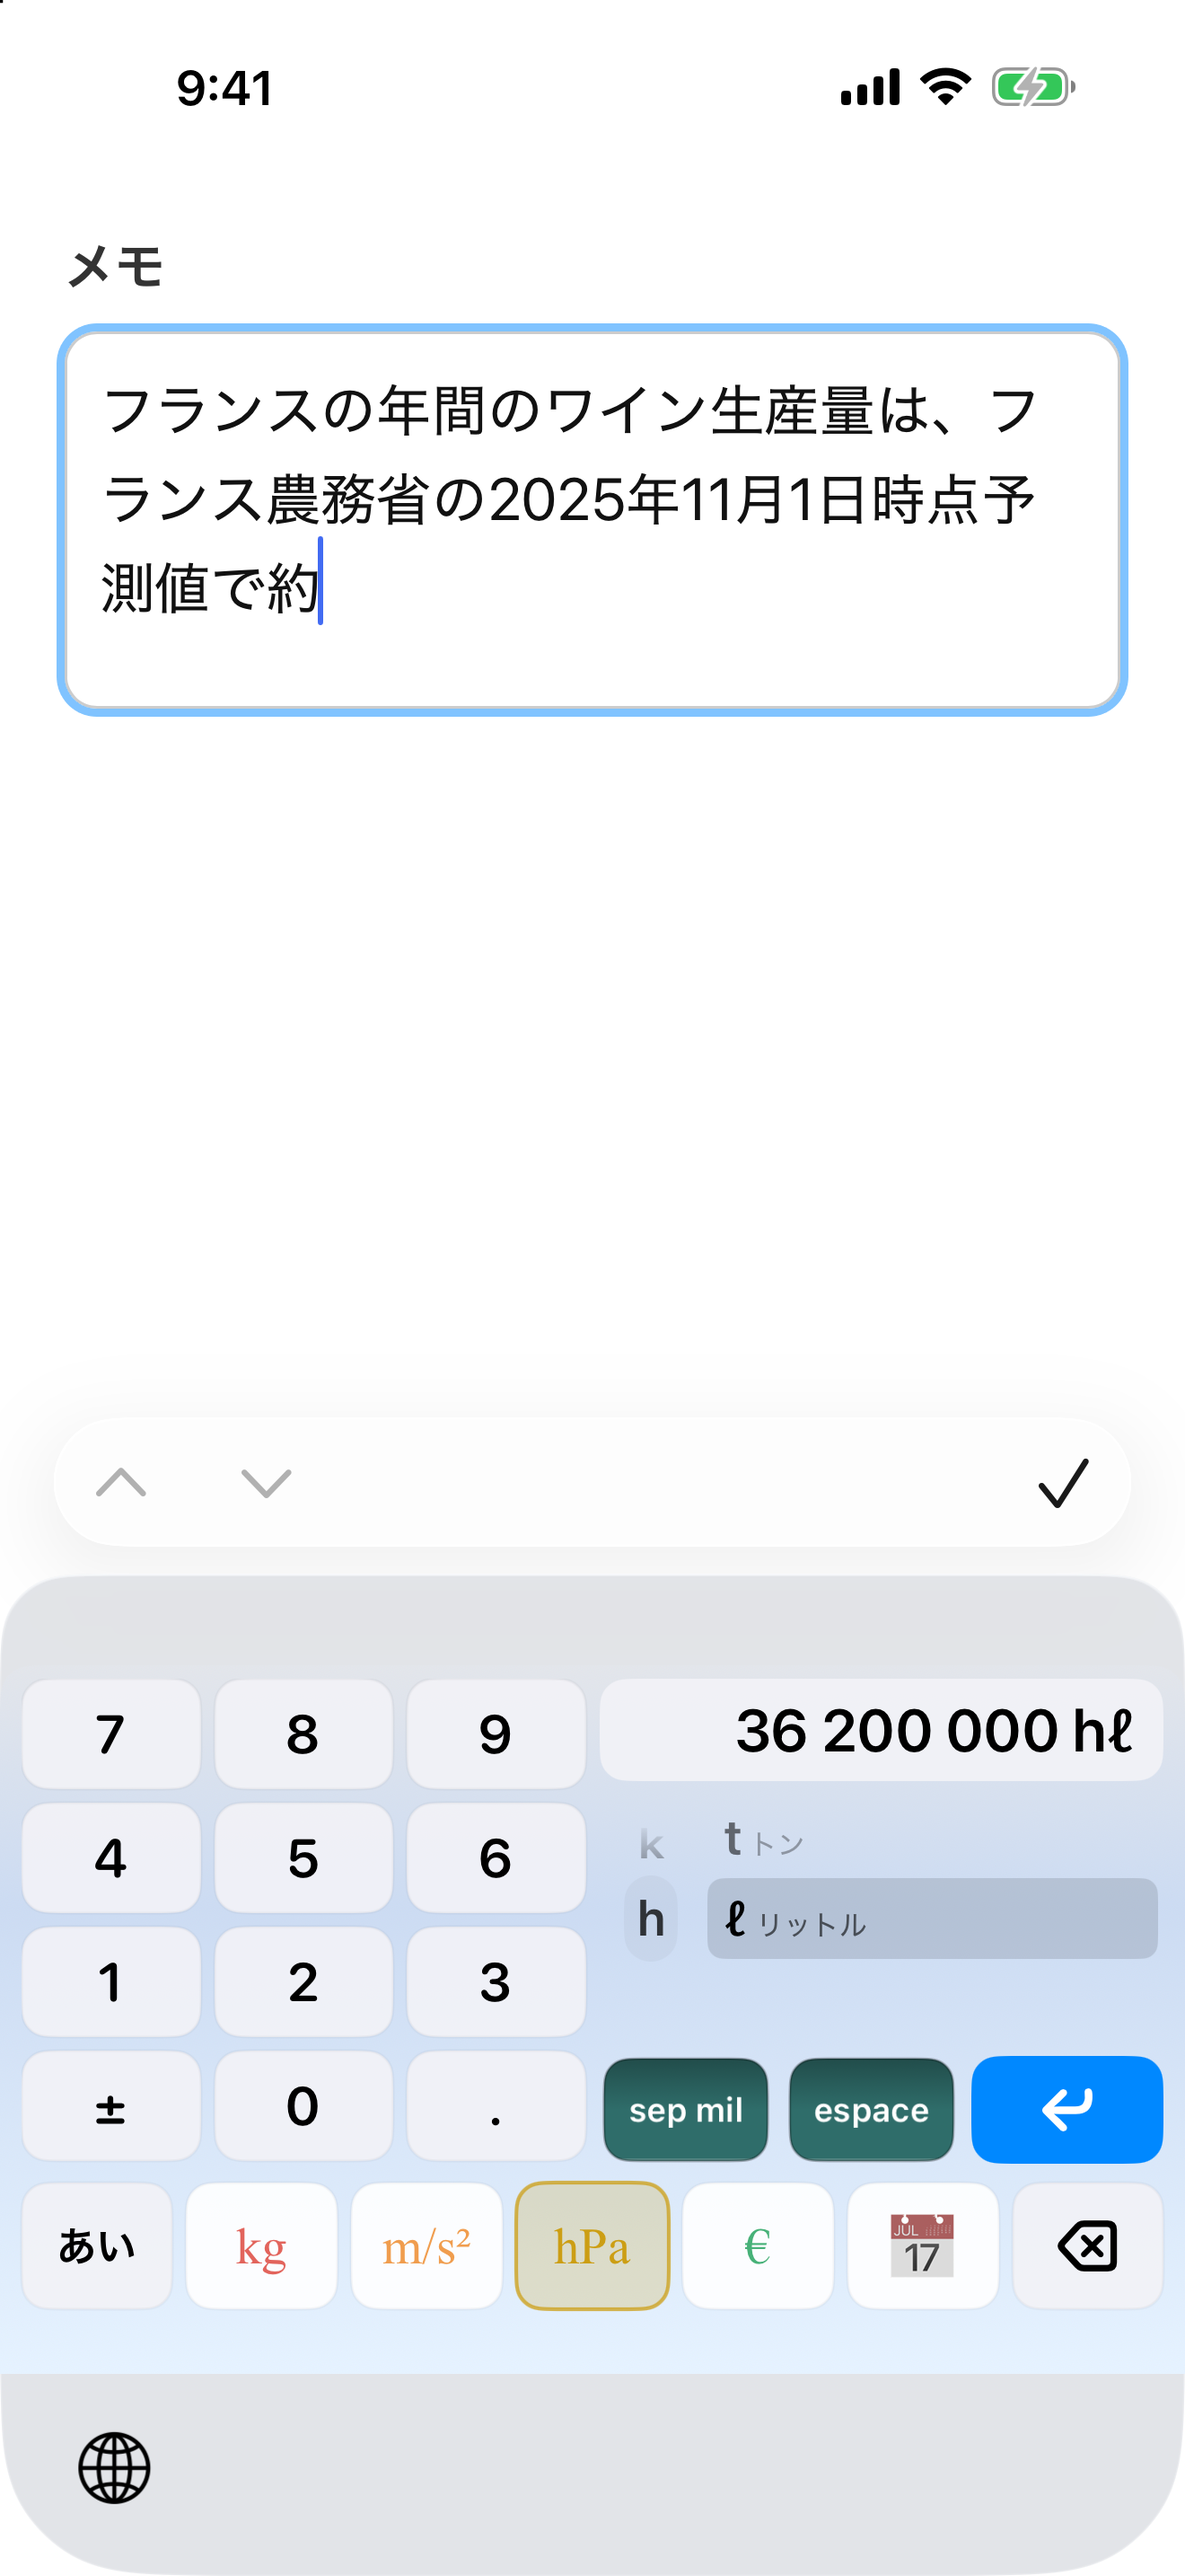
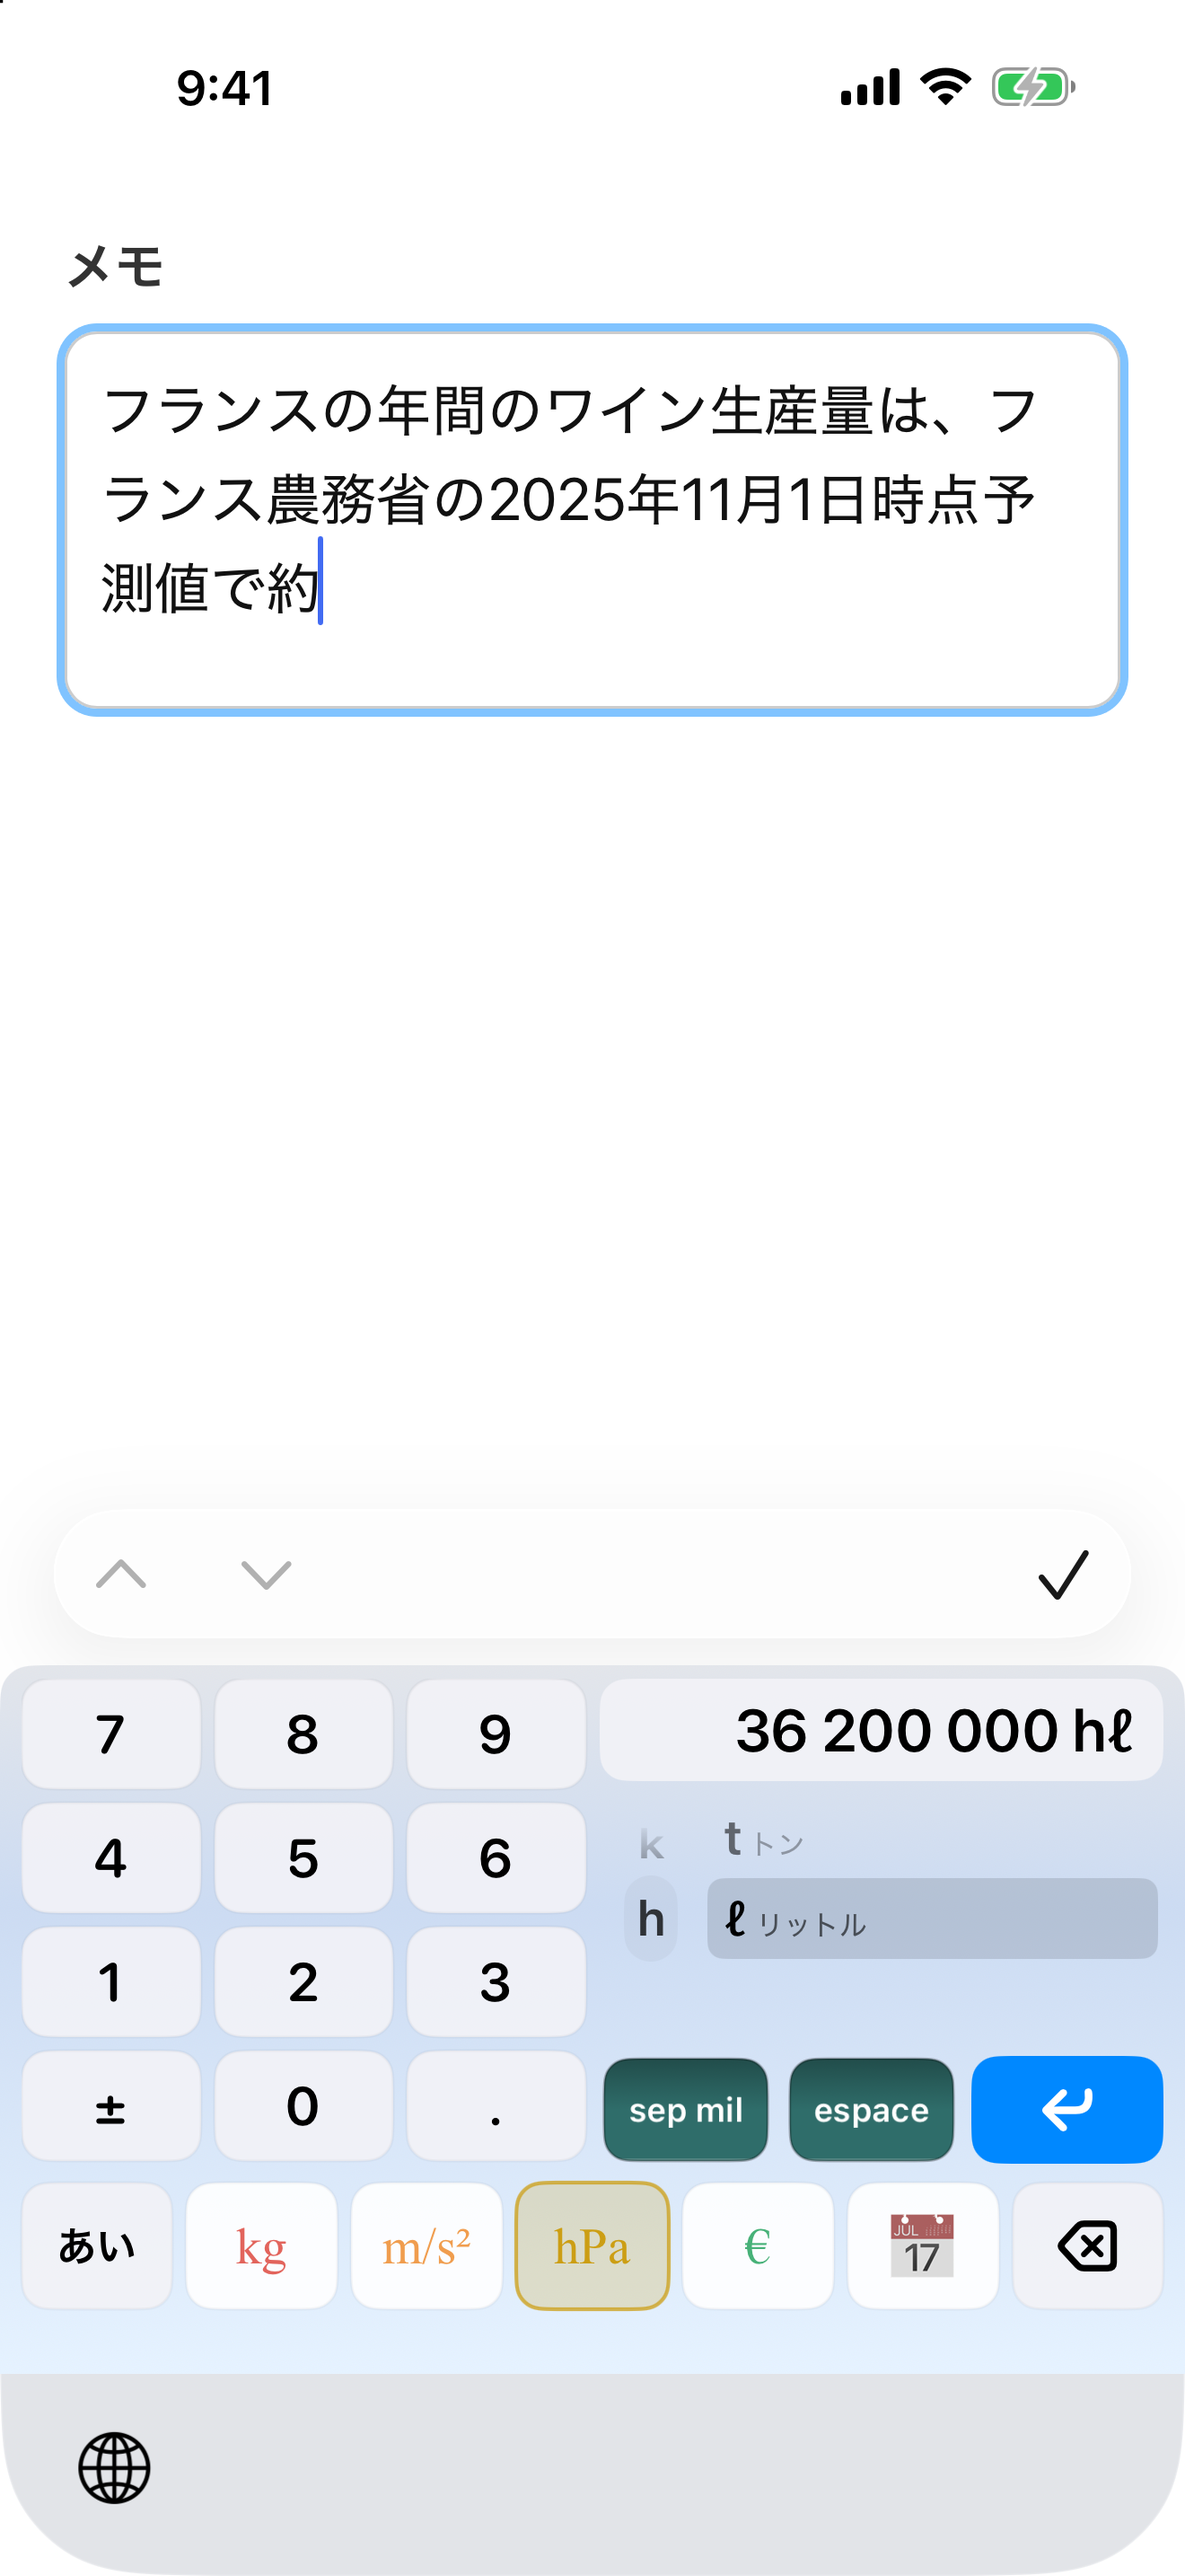
docs(appstore): スクリーンショット 01〜05 を、上余白の補正(17pt の透明な帯)を切って撮り直す
take 6 は縦画面で 17pt 高く申告する補正(3264)が効いたまま撮っており、シミュレーターのホストは灰色の余白を
付けないので、帯がキーボードの上の空白として写っていた。撮影用フックで補正を 0 にして撮り直した。
撮影の道具の é を含むグロブが外れる問題と、純正キーボードが写り続けたときの戻し方も直す・記録する。

Changed region(s): [[0.0, 0.5586, 1.0, 0.6517]]

diff --git a/appstore/apply-screenshot-hooks.py b/appstore/apply-screenshot-hooks.py
@@ -235,7 +235,14 @@ s = s[:j] + b + s[j + len(a):]
 open(path, "w", encoding="utf-8").write(s)
 print("patched KeyboardKeyComponents.swift")
 
-# 5. 2 段階フリックの吹き出しを出したままにする
+# 5. 上余白の補正(縦画面で 17pt を透明な帯として高く申告する。3264)を切る。実機のホストが付ける灰色の余白を
+#    打ち消すためのもので、シミュレーターのホストは余白を付けないので、帯がそのまま空白として写ってしまう(take 6 の失敗)
+patch("KeyboardViewController+Layout.swift", [(
+    "    static let hostPlaceholderTopInset: CGFloat = 17",
+    "    static let hostPlaceholderTopInset: CGFloat = 0  // ★撮影用の一時変更(コミットしない)",
+)])
+
+# 6. 2 段階フリックの吹き出しを出したままにする
 patch("FlickKeyView.swift", [(
     """        .contentShape(Rectangle())
         .gesture(flickGesture)""",

diff --git a/appstore/screenshots-plan.md b/appstore/screenshots-plan.md
@@ -13,7 +13,7 @@
 3. 下記「撮影用の入力ページ」をホーム画面に追加し、そのアイコンから起動
 4. 地球儀で écritu に切替 → `xcrun simctl io <UD> screenshot appstore/screenshots/NN-name.png`
 
-## 撮影状態(take 6 = 現行、2026-10-02。01〜05 を無操作手順で撮り直し)
+## 撮影状態(take 7 = 現行、2026-10-02。01〜05 を上余白の補正なしで撮り直し)
 
 6枚すべて撮影済み・1320×2868。ホーム画面に追加した `capture-page.html` から起動して撮ったため、
 Safari のドメイン表示ピルもツールバーも写っていない。音声入力はオフでマイクも無し。
@@ -119,6 +119,15 @@ take 6 で使った種(iPhone 17 Pro Max、`B907C0B8-0540-436D-9D10-2E5747498716
 
 撮影後は 02/05 で変えた設定(配列・背景・フリック方向・修飾の位置・ガイド・ℓ)と `screenshot*` を削除して既定に戻す。
 **ダイナミックアイランドが写ることがある**(take 6 の 04 で 2 回)。写ったら数秒待って `xcrun simctl io <UDID> screenshot` で撮り足す。
+
+**上余白の補正を切ってから撮る**(take 7、2026-10-02)。3264 以降、縦画面は 17pt の透明な帯を足して高く申告する
+(実機のホストが付ける灰色の余白を打ち消すため)。シミュレーターのホストは余白を付けないので、帯がそのまま
+キーボードの上の空白として写る。apply-screenshot-hooks.py が `hostPlaceholderTopInset` を 0 にする。
+
+**純正キーボードが写り続けたら**、装着失敗で iOS が「最後に使ったキーボード」を純正に切り替えて覚えている。
+停止中に `D/Library/Preferences/com.apple.keyboard.preferences.plist` の `KeyboardLastUsed`・
+`KeyboardLastUsedForLanguage:ja_JP`・`:NonASCII`・`KeyboardsCurrentAndNext:0/1` を
+`jp.or.pleiades.merope.ecritu.keyboard` に戻して起動し直す(take 7 の 02 で発生)。
 
 
 拡張に使い捨てのコードを入れ、App Group のキーを読んで状態を作る。撮影後 `git checkout -- KeyboardExtension/` で外す。
